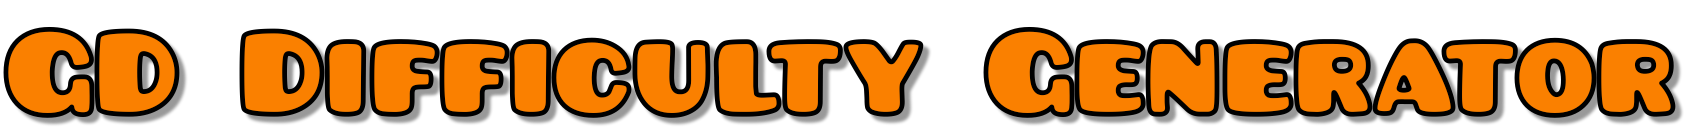
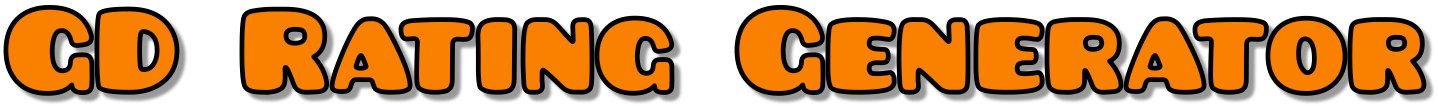
edit title

diff --git a/index.html b/index.html
@@ -3,15 +3,15 @@
   <head>
     <meta charset="UTF-8" />
     <meta name="viewport" content="width=device-width, initial-scale=1.0" />
-    <title>GD Difficulty Generator</title>
+    <title>GD Rating Generator</title>
     <link rel="stylesheet" href="styles.css" />
   </head>
   <body>
-    <main class="app" aria-label="Geometry Dash difficulty face generator">
+    <main class="app" aria-label="Geometry Dash rating generator">
       <img
         class="title"
         src="assets/GT_title.png"
-        alt="GD Difficulty Generator"
+        alt="GD Rating Generator"
       />
 
       <section class="workspace" aria-label="Icon generator">